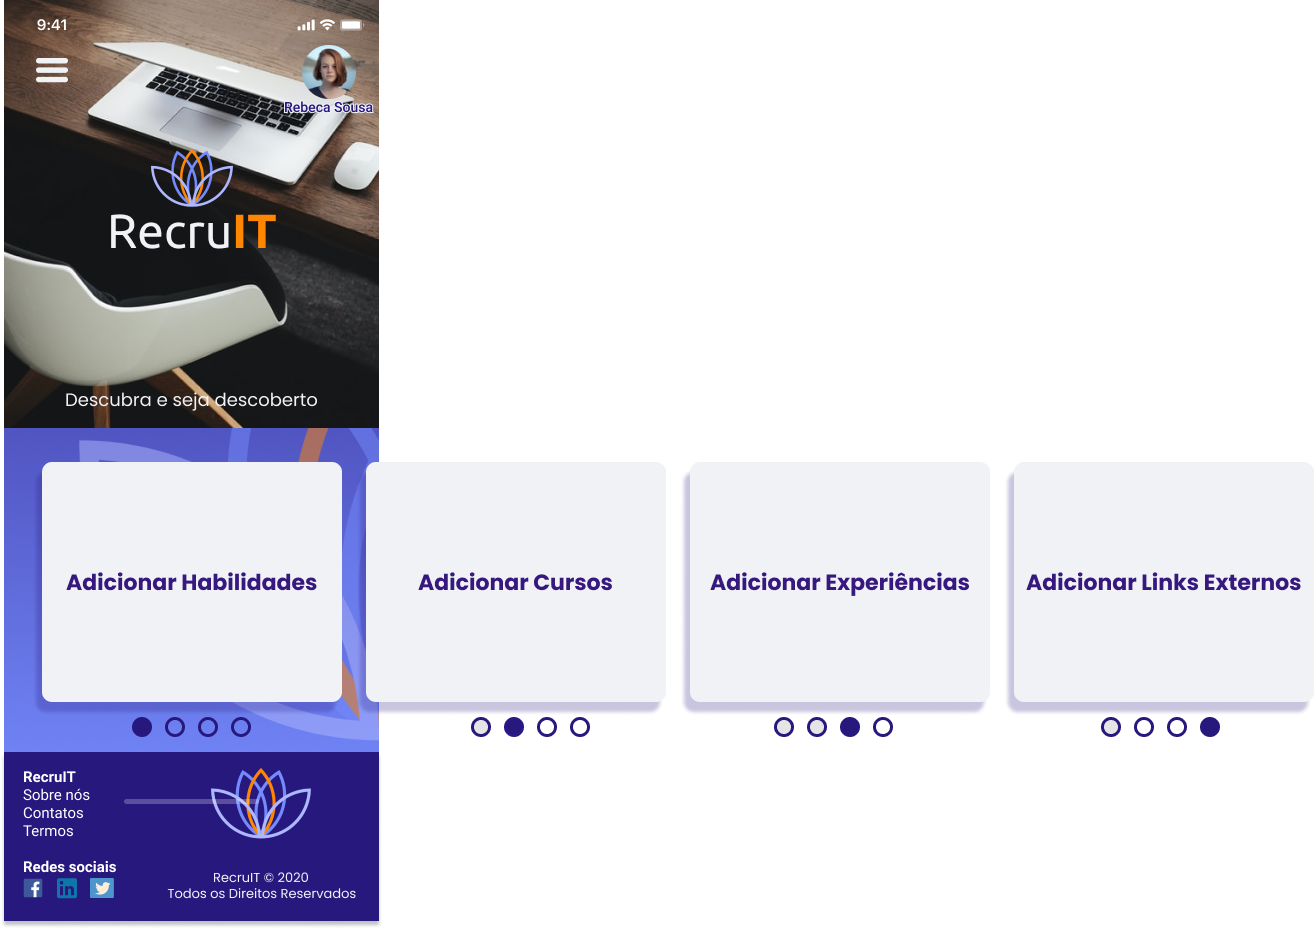
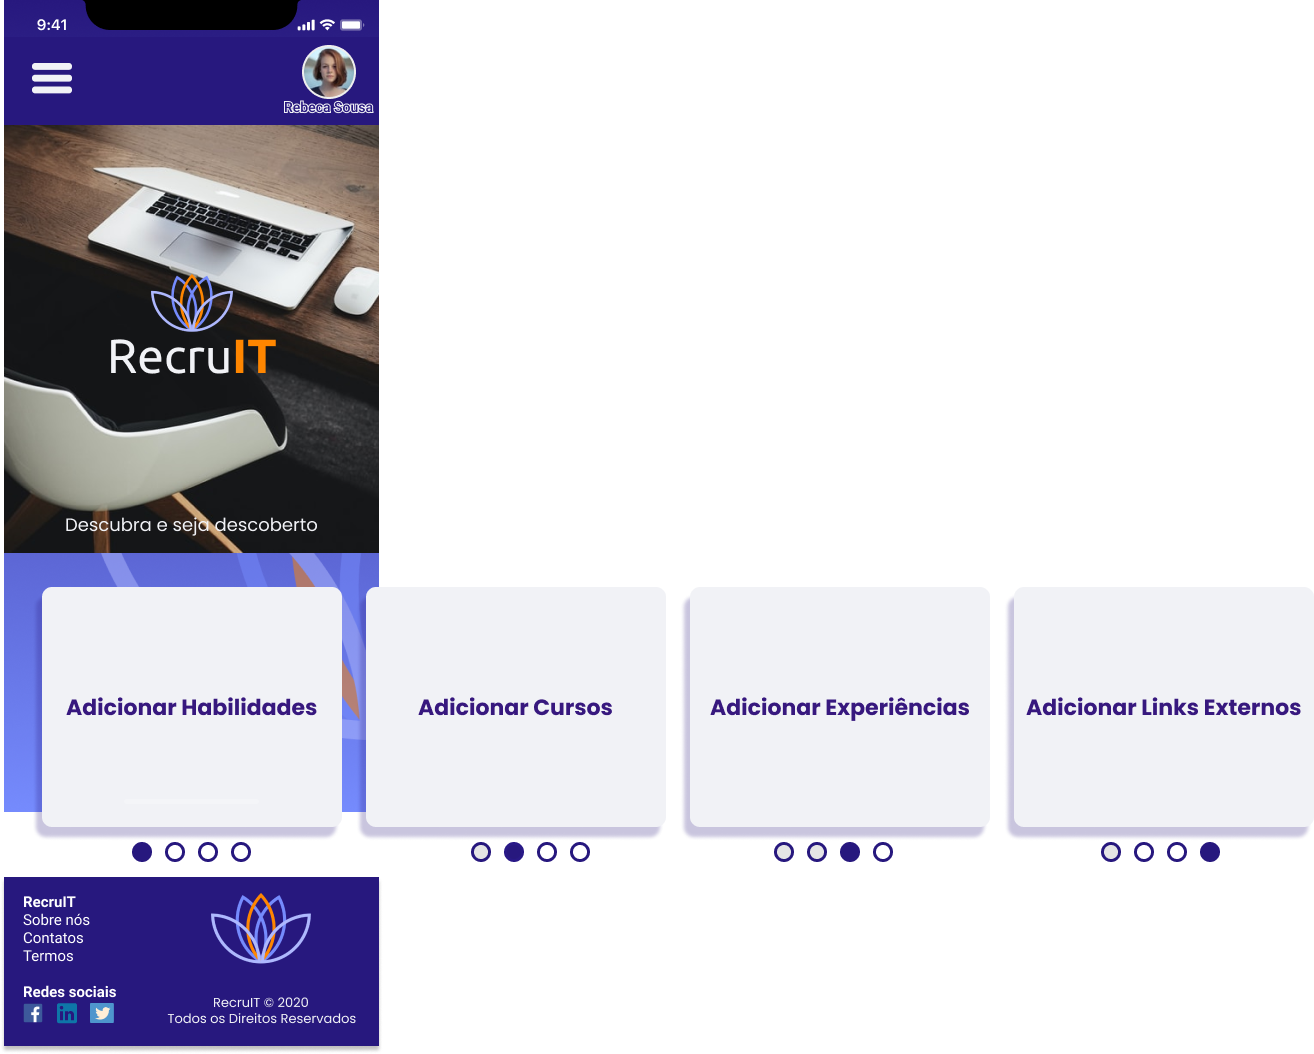
Prototipo - Novas Telas, Perfil, Home e Empresas

diff --git a/docs/Prototipo/README.md b/docs/Prototipo/README.md
@@ -17,6 +17,8 @@
 ![Cadastro](https://user-images.githubusercontent.com/61213281/93407542-dc07b000-f868-11ea-9823-7bb14d77bf0a.png)
 ![Home](https://user-images.githubusercontent.com/61213281/93827620-f8786380-fc3f-11ea-938b-fa4a4908d420.png)
 ![Perfil](https://user-images.githubusercontent.com/61213281/93827616-f7dfcd00-fc3f-11ea-8324-d1595000bf5d.png)
-
+![Perfil-Editado](https://user-images.githubusercontent.com/61213281/95663197-8cd53800-0b13-11eb-8a98-91d39bf72e0e.png)
+![Perfil - Empresas](https://user-images.githubusercontent.com/61213281/95663196-8c3ca180-0b13-11eb-8816-3aa80c211794.png)
+![Home - Empresas](https://user-images.githubusercontent.com/61213281/95663198-8d6dce80-0b13-11eb-8c22-6becf96a81ee.png)
 
 
